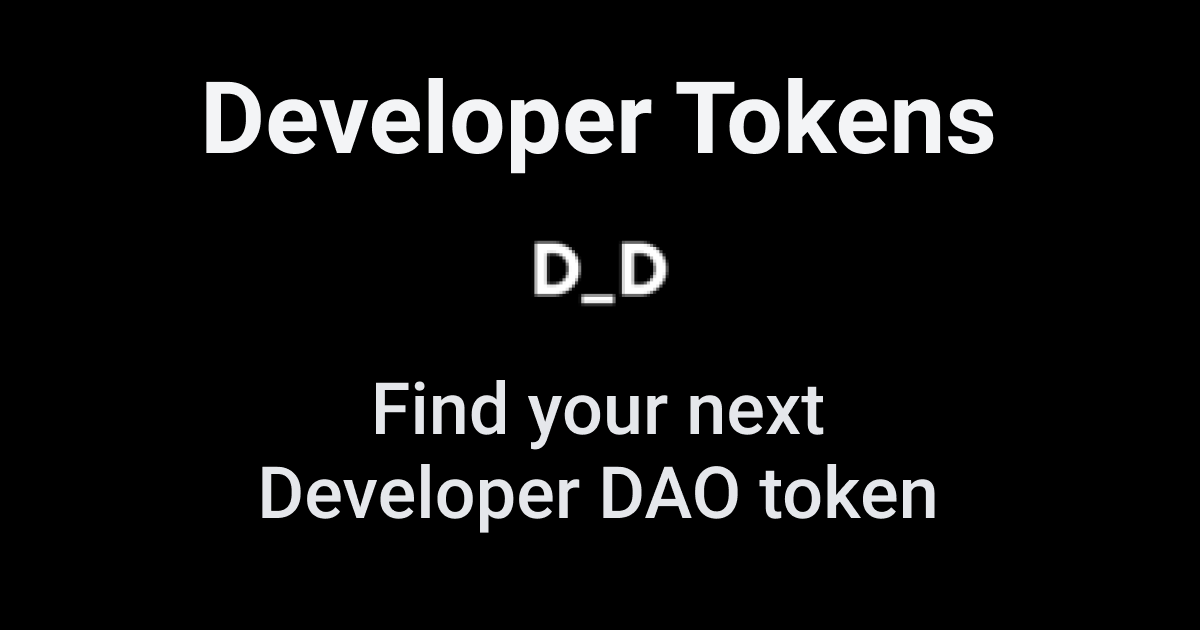
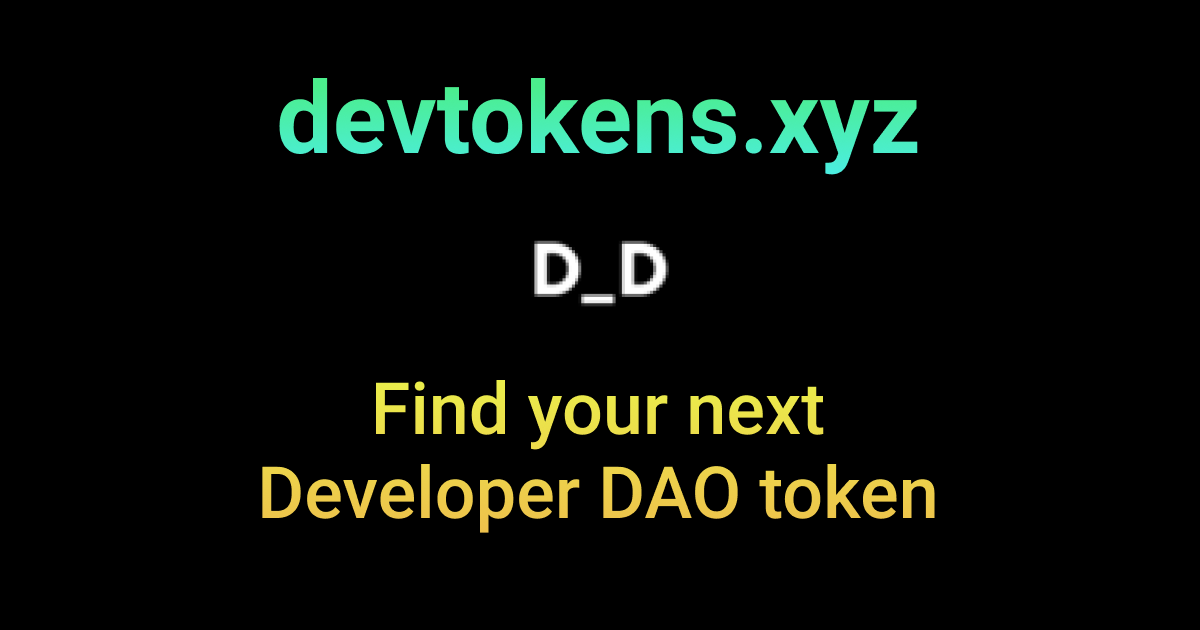
Update branding to match new site domain

Changed region(s): [[0.1542, 0.1206, 0.8325, 0.2714], [0.2158, 0.7238, 0.8017, 0.8444], [0.3083, 0.6032, 0.7092, 0.7238]]

diff --git a/components/NavBar.tsx b/components/NavBar.tsx
@@ -1,10 +1,11 @@
 import RouterLink from "next/link";
-import { Flex, Heading, HStack, useColorModeValue } from "@chakra-ui/react";
+import { Flex, HStack, useColorModeValue } from "@chakra-ui/react";
+
 import { ThemeToggleButton } from "./ThemeToggleButton";
+import { Logo } from "./Logo";
 
 export function NavBar() {
 	const bg = useColorModeValue("gray.700", "gray.900");
-	const color = useColorModeValue("white", "black");
 
 	return (
 		<Flex
@@ -17,7 +18,7 @@ export function NavBar() {
 		>
 			<RouterLink href="/">
 				<a>
-					<Heading size="lg">Developer Tokens</Heading>
+					<Logo />
 				</a>
 			</RouterLink>
 			<HStack>

diff --git a/components/Logo.tsx b/components/Logo.tsx
@@ -1,0 +1,13 @@
+import { Heading } from "@chakra-ui/react";
+
+export function Logo() {
+	return (
+		<Heading
+			size="lg"
+			bgGradient="linear(180deg, #4BEE8C 22.92%, #4BEEE4 100%)"
+			bgClip="text"
+		>
+			devtokens.xyz
+		</Heading>
+	);
+}
